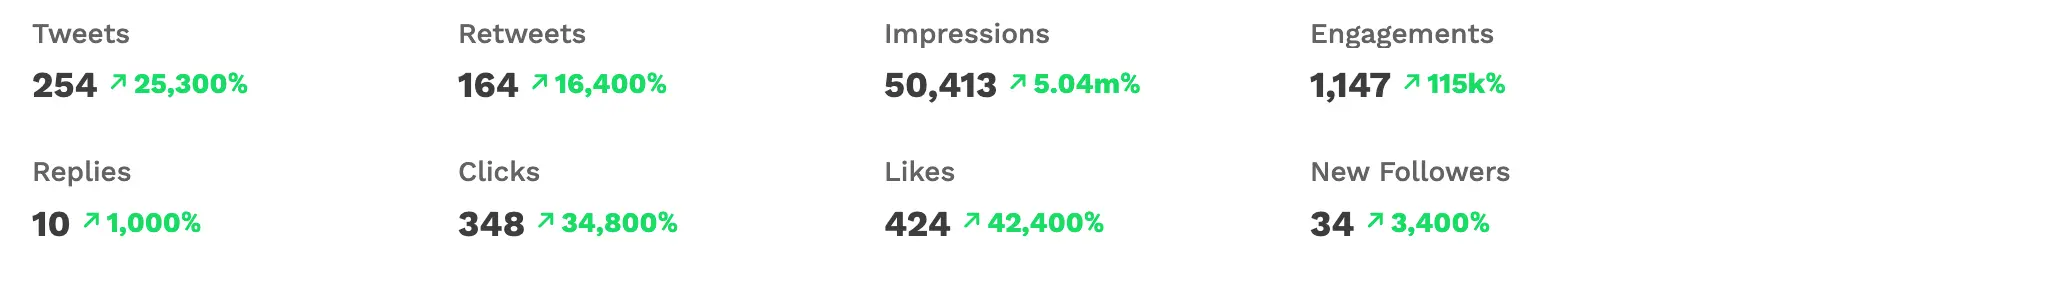
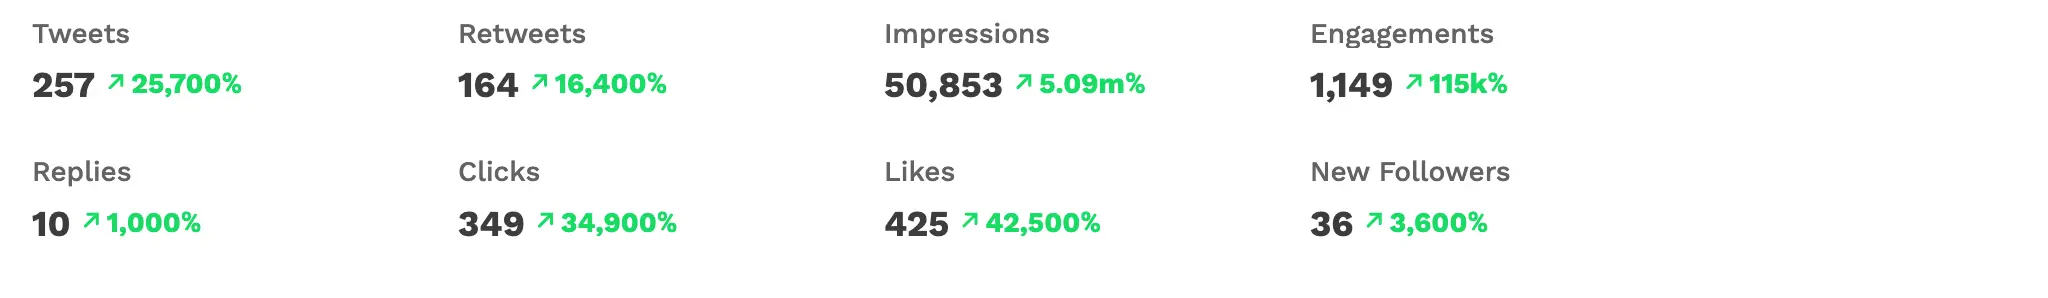
fix: update marketing report

diff --git a/markdown/blog/2024-marketing-report.md b/markdown/blog/2024-marketing-report.md
@@ -1,6 +1,6 @@
 ---
 title: "Marketing Report: December 2024"
-date: 2024-12-12T06:00:00+01:00
+date: 2024-12-16T06:00:00+01:00
 type: Communication
 tags:
   - Project Status
@@ -10,7 +10,7 @@ authors:
     photo: /img/avatars/bami.webp
     link: https://www.linkedin.com/in/atinuke-oluwabamikemi-kayode-5b838b1b7/
     byline: AsyncAPI Community Marketing Specialist
-excerpt: 'Marketing is key to open source success, connecting technical excellence with community engagement. It highlights strategic initiatives and SM efforts'
+excerpt: 'Marketing is key to open source success, connecting technical excellence with community engagement. It highlights strategic initiatives and social media efforts'
 featured: true
 ---
 
@@ -38,7 +38,7 @@ Below is a summary of what we’ve accomplished this year and our priorities mov
 We’ve focused on laying the groundwork for long-term growth and engagement for the last six months. Our marketing initiatives have been designed to elevate AsyncAPI’s visibility, simplify our communication strategy, and ensure we’re prepared to grow alongside our community. 
 
 Here’s a summary of what we’ve done so far:
-- Launched targeted campaigns for our programs and events.
+- Launched targeted social media campaigns for our programs and events, supported by our community of designers who create engaging media content. Such as the #AsyncAPIParis2024 campaign and #YourAsyncAPIStory to celebrate AsyncAPI at 8!
 - Held successful online event that engaged and informed over 350 community members and prospective contributors
 - Implemented regular content updates on our platforms to keep followers informed and engaged
 - Proposed the Student Ambassador Program initiative that aims to bring more attention to AsyncAPI's mission and tools, further building our presence and strengthening community ties
@@ -56,55 +56,47 @@ Here are some of the benefits of using the Buffer subscription
 
 Please note that I currently do not have direct access to AsyncAPI’s social media accounts. Buffer provides an effective solution for posting content, monitoring performance, and maintaining the high standards of AsyncAPI's public presence without broad access.
 
-As part of the benefit of using Buffer, we have access to our social media analytics. Below are the analytics for LinkedIn and X (formally Twitter) from May 20th to December 10th, 2024.
+As part of the benefit of using Buffer, we have access to our social media analytics. Below are the analytics for LinkedIn and X (formally Twitter) from January 1st to December 12th, 2024.
 
 
-![AsyncAPI LinkedIn engagement metrics showing follower growth and post metrics from Buffer analytics](/img/posts/marketing-images/linkedIn-metrics-insights.webp)
+
+<Figure
+  src="/img/posts/marketing-images/linkedIn-metrics-insights.webp"
+  caption="AsyncAPI LinkedIn graph showing metrics insights from Buffer analytics."
+  className="text-center"
+/>
 
 
-![AsyncAPI LinkedIn engagement metrics showing follower growth and post performance from Buffer analytics](/img/posts/marketing-images/linkedin-performance-statistics.webp)
+
+<Figure
+  src="/img/posts/marketing-images/linkedin-performance-statistics.webp"
+  caption="AsyncAPI LinkedIn performance statistics from Buffer analytics."
+  className="text-center"
+/>
 
 
-The images above show that LinkedIn's performance is great. Here’s a breakdown of our LinkedIn metrics from Buffer’s analysis:
 
-- **Followers:** We’ve grown to 3,905 followers, marking a 19% increase in our audience size. 
-
-- **Impressions:** Our posts were seen 68,440 times, a remarkable 120% growth, indicating broader visibility. 
-
-- **New Followers:** We gained 620 new followers, reflecting a 119% increase in audience acquisition. 
-
-- **Clicks:** Our content drove 3,213 clicks, an impressive 205% growth, showcasing heightened interest and engagement.
-
-- **Posts:** We published 176 posts, up by 209%, emphasizing consistent and active content sharing. 
-
-- **Engagement Rate:** Our engagement rate reached 5.83%, improving by 31%, indicating stronger interactions with our audience. 
-
-Our LinkedIn efforts are yielding fantastic results, with significant growth in visibility, engagement, and audience acquisition. The impressive metrics reflect the value and relevance of our content. However, we're still up for improvement.
-
-![AsyncAPI Twitter (X) engagement metrics showing follower growth and tweet metrics from Buffer analytics](/img/posts/marketing-images/x-metrics-insights.webp)
-
-![AsyncAPI Twitter (X) engagement metrics showing follower growth and tweet performance from Buffer analytics](/img/posts/marketing-images/x-performance-statistics.webp)
-
-The X (Twitter) performance overview indicates our incredible performance growth:
-
-- **Tweets:** Shared an impressive 254 tweets, marking a staggering 25,300% increase. 
-- **Replies:** Engaged in 10 replies, growing by 1,000%, highlighting our community members are beginning to take an interest in our X posts. 
-
-- **Retweets:** Earned 164 retweets, a remarkable 16,400% increase, amplifying our reach. 
-
-- **Clicks:** Drove 348 clicks, a phenomenal 34,800% growth, reflecting strong audience interest.
-
-- **Impressions:** Achieved 50,413 impressions, a mind-blowing 5.04M% increase, dramatically boosting visibility. 
-
-- **Likes:** Garnered 424 likes, growing by 42,400%, showing that our content resonated well. 
-
-- **Engagements:** Secured 1,147 total engagements, up by an incredible 115K%, indicating high interactivity. 
-
-- **New Followers:** Welcomed 34 new followers, a 3,400% increase, expanding our community. 
+In 2024, our LinkedIn performance saw impressive growth: a 48% increase in followers (3,910 total), 104% more impressions (100,328), and 91% more new followers (911). Engagement soared with a 219% rise in clicks (4,295 total) and a 9% improved engagement rate (5.32%). We also published 44% more posts (233), highlighting consistent content efforts.
 
 
-Our efforts on X have paid off significantly, with astronomical growth across key metrics. 
 
+<Figure
+  src="/img/posts/marketing-images/linkedin-performance-statistics.webp"
+  caption="AsyncAPI Twitter (X) mereics insights from Buffer analytics."
+  className="text-center"
+/>
+
+
+
+
+<Figure
+  src="/img/posts/marketing-images/x-performance-statistics.webp"
+  caption="AsyncAPI LinkedIn performance statistics from Buffer analytics."
+  className="text-center"
+/>
+
+
+Our performance on X (Twitter) has been extraordinary, with significant growth in tweets, replies, retweets, clicks, impressions, likes, and overall engagements. These results highlight increased visibility, audience interactions, and a stronger community connection.
 
 ## Closing the Online Store
 
@@ -112,7 +104,12 @@ One significant change is the closure of our online store. After reviewing our b
 
 As of June 2024, the items in the store were 2383. The goal was to disburse all of the items by December 2024.
 
-![Chart showing breakdown of AsyncAPI merchandise inventory as of June 2024](/img/posts/marketing-images/merchandise.webp)
+
+<Figure
+  src="/img/posts/marketing-images/merchandise.webp"
+  caption="Chart showing breakdown of AsyncAPI merchandise inventory as of June 2024."
+  className="text-center"
+/>
 
 
  Below is the breakdown of the item distribution and what we have left in the store.
@@ -131,7 +128,14 @@ As of June 2024, the items in the store were 2383. The goal was to disburse all 
 
 So far, $8,264.37 has been spent on maintaining the store and logistics. As part of the benefit of closing the store, merchandise will be made locally at the event location, and others will be made as per request. [You can find all the information on the distribution board](https://docs.google.com/spreadsheets/d/1K7xo-ihlHcVoSYRg1U6SsvQDreEF1S6z/r/edit/edit?gid=1275706868#gid=1275706868).
 
-![Graph showing monthly expenditure breakdown for the AsyncAPI merchandise store](/img/posts/marketing-images/store-report.webp)
+
+
+<Figure
+  src="/img/posts/marketing-images/store-report.webp"
+  caption="Graph showing monthly expenditure breakdown for the AsyncAPI merchandise store."
+  className="text-center"
+/>
+
 
 
 [For more details on the store expenses, please go through our Open Collective page](https://opencollective.com/asyncapi/expenses?type=INVOICE&period=2023-12-31T23%3A00%3A00.000Z%E2%86%92all&searchTerm=Pinnacle+Branding&offset=0&limit=10)
@@ -139,7 +143,7 @@ So far, $8,264.37 has been spent on maintaining the store and logistics. As part
 
 ## Marketing Strategy Document and Student Ambassador Program
 
-To guide our efforts, [we’ve developed a comprehensive Strategy Document](https://github.com/asyncapi/community/pull/1358) that outlines our objectives, priorities, and target initiatives. The document outlines our upcoming campaigns, events, and community engagement efforts.
+To guide our efforts, [we’re developing a comprehensive Strategy Document](https://github.com/asyncapi/community/pull/1358) that outlines our objectives, priorities, and target initiatives. The document outlines our upcoming campaigns, events, and community engagement efforts.
 
 Additionally, we are planning to introduce the [Student Ambassador Program](https://github.com/asyncapi/community/pull/1333), which aims to nurture future AsyncAPI advocates and contributors at the student level. The program will offer students guidance, resources, and community connections to help them grow within the AsyncAPI ecosystem. We believe this will strengthen our community and ensure that AsyncAPI remains a go-to resource for emerging talent.
 
@@ -160,7 +164,7 @@ With these focus areas, we’re confident that AsyncAPI will continue to expand 
 
 ## Sponsor Involvement in the Marketing Working Group
 
-The Marketing Working Group thrives on collaboration, and we’re fortunate to have active participation from representatives of our sponsors, including Christophe Dujarric from Bump.sh and Georgie Burrows from Gravitee.io. Their insights, ideas, and expertise are invaluable in shaping the group’s direction and ensuring that AsyncAPI’s marketing strategies align with the broader goals of our sponsors and the community.
+The Marketing Working Group thrives on collaboration, and we’re fortunate to have active participation from representatives of our sponsors, including [Christophe Dujarric](https://www.linkedin.com/in/christophedujarric/) from [Bump.sh](https://bump.sh/) and [Georgie Burrows](https://www.linkedin.com/in/georgieburrows/) from [Gravitee.io](https://www.gravitee.io/). Their insights, ideas, and expertise are invaluable in shaping the group’s direction and ensuring that AsyncAPI’s marketing strategies align with the broader goals of our sponsors and the community.
 
 ## Who can Join the Marketing Working Group?
 
@@ -173,16 +177,10 @@ This collaborative approach ensures that diverse perspectives guide our efforts 
 
 This report highlights the strides made by the AsyncAPI Marketing Working Group, including targeted campaigns, streamlined social media management with Buffer, impactful merchandise distribution, the introduction of a comprehensive strategy document, and the launch of the Student Ambassador Program. We've also made strategic decisions, such as closing the online store, to optimize our budget for initiatives that deliver greater value to the community.
 
-So far, our social media analytics are looking good.
-
-
-![Overall social media performance metrics from Buffer showing engagement across all platforms](/img/posts/marketing-images/buffer-report.webp)
-
-
 Looking ahead, our focus will be on implementing the strategy document, fostering community growth, launching the Student Ambassador Program, and driving impactful promotions and partnerships. These efforts aim to strengthen the AsyncAPI ecosystem and create meaningful opportunities for collaboration and engagement.
 
 
-If you have any questions, suggestions, or ideas, please feel free to reach out to me on Slack [@Bami](U070DE02VQX). Here’s to another successful year of growth, collaboration, and impact. 
+If you have any questions, suggestions, or ideas, please feel free to reach out to me on Slack [Bami](https://asyncapi.slack.com/archives/D070U11CU1G). Here's to another successful year of growth, collaboration, and impact. 
 
 
 
